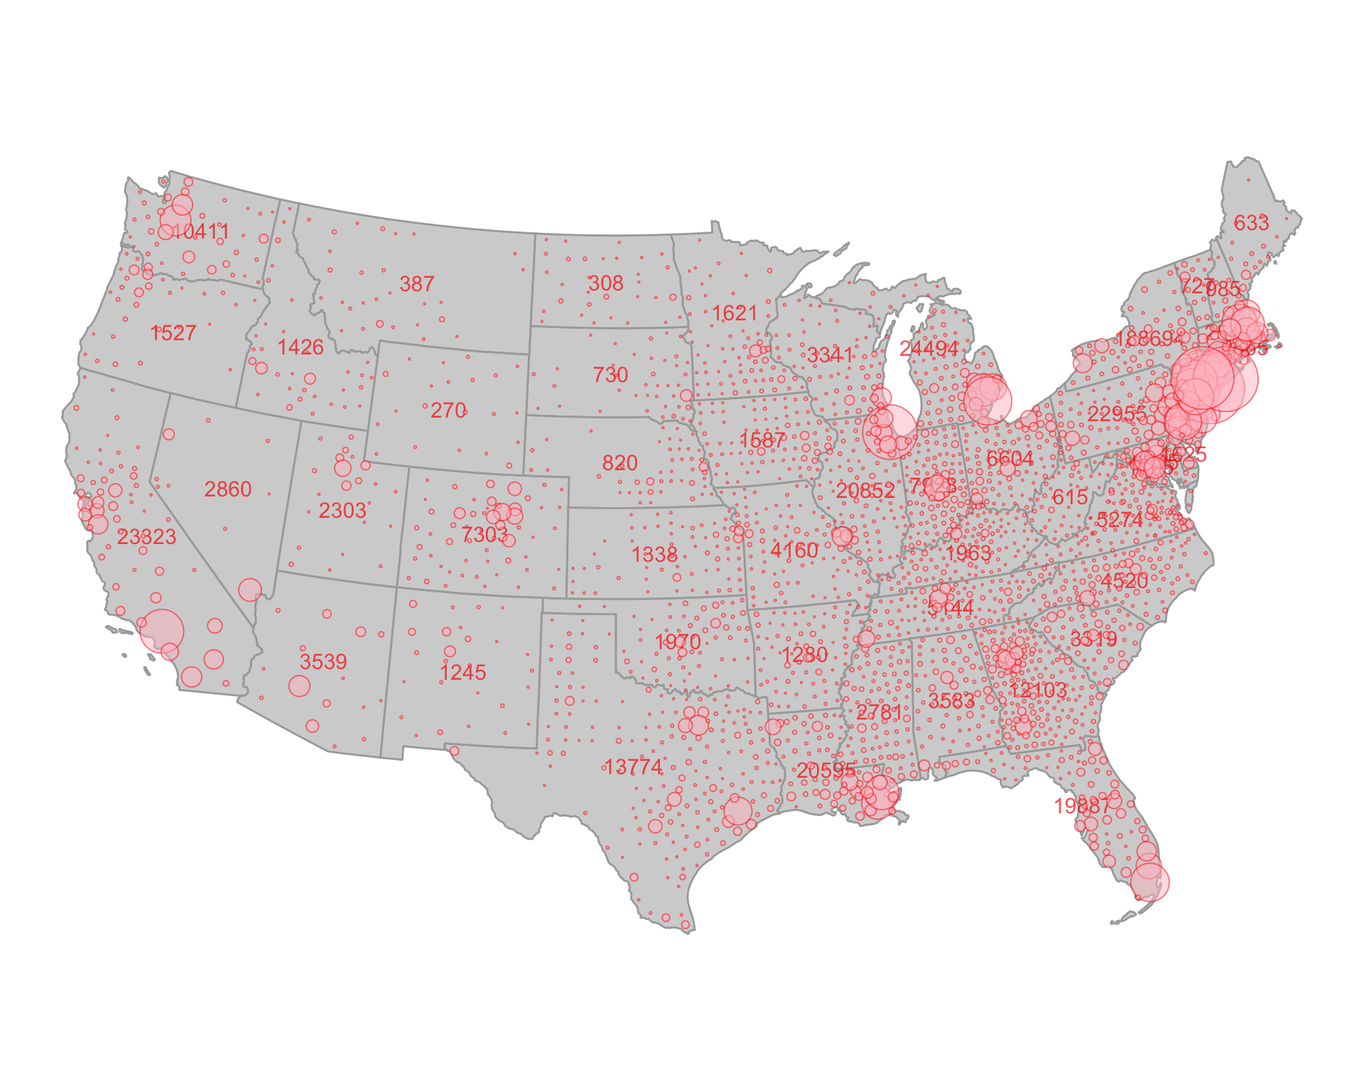
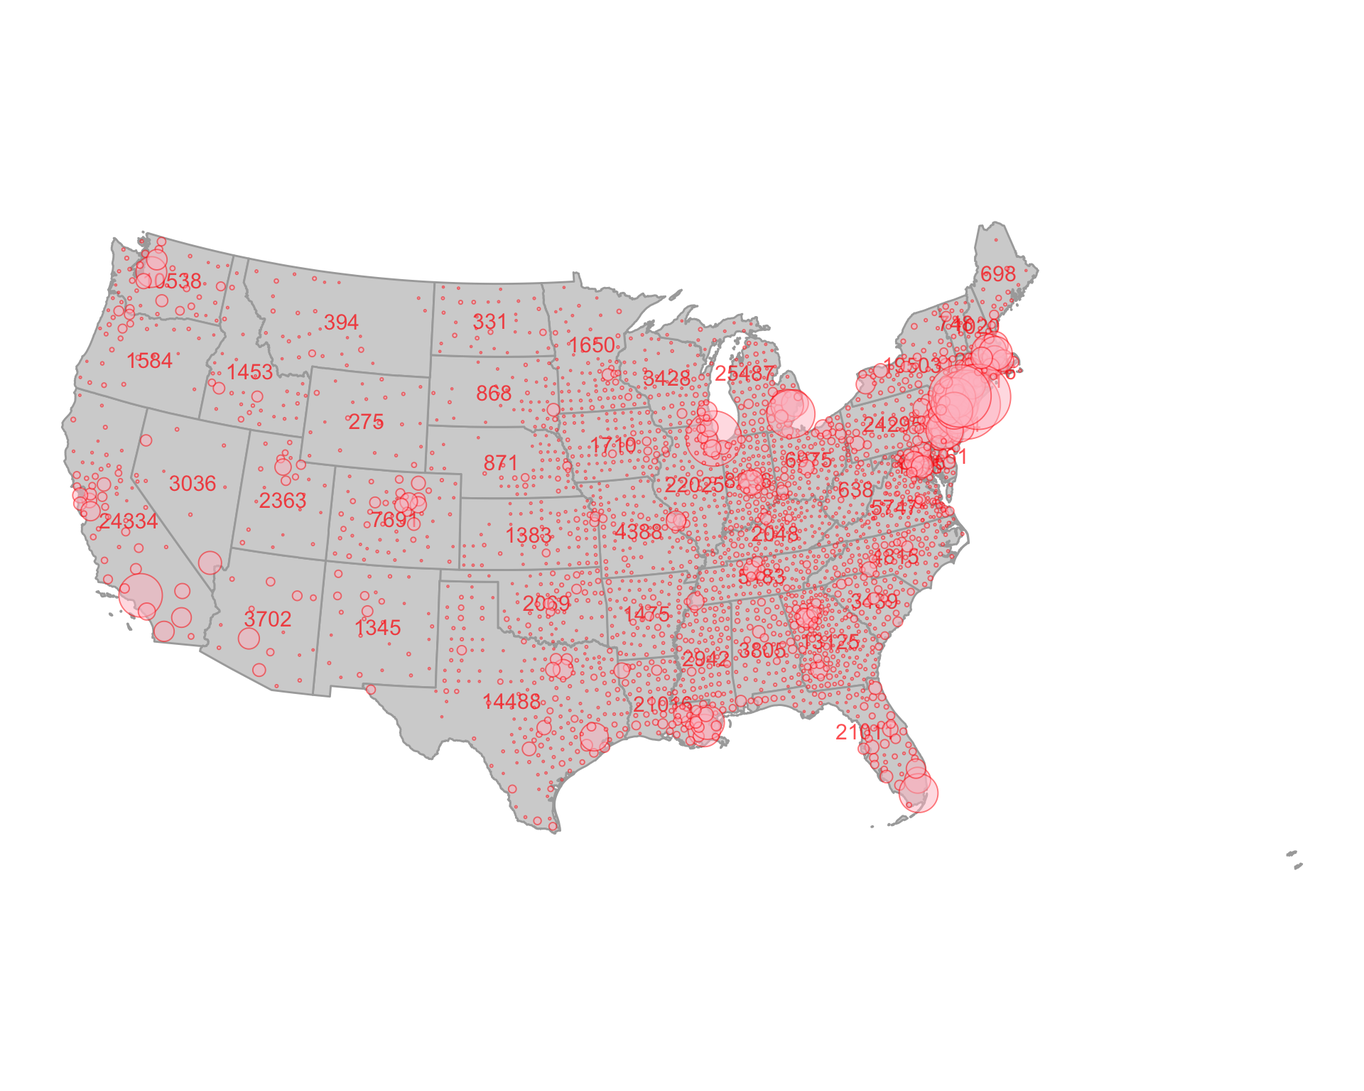
Updating with tigris

Changed region(s): [[0.0312, 0.125, 0.9688, 0.875]]

diff --git a/docs/articles/ny-times-bubble-map.html b/docs/articles/ny-times-bubble-map.html
@@ -97,62 +97,74 @@
 <div class="sourceCode" id="cb1"><pre class="sourceCode r"><code class="sourceCode r"><a class="sourceLine" id="cb1-1" data-line-number="1"><span class="kw"><a href="https://rdrr.io/r/base/library.html">require</a></span>(covid19nytimes)</a>
 <a class="sourceLine" id="cb1-2" data-line-number="2"><span class="kw"><a href="https://rdrr.io/r/base/library.html">require</a></span>(dplyr)</a>
 <a class="sourceLine" id="cb1-3" data-line-number="3"></a>
-<a class="sourceLine" id="cb1-4" data-line-number="4">covid19nytimes_states &lt;-<span class="st"> </span><span class="kw"><a href="../reference/refresh_covid19nytimes_states.html">refresh_covid19nytimes_states</a></span>()</a>
-<a class="sourceLine" id="cb1-5" data-line-number="5">covid19nytimes_counties &lt;-<span class="st"> </span><span class="kw"><a href="../reference/refresh_covid19nytimes_counties.html">refresh_covid19nytimes_counties</a></span>()</a></code></pre></div>
+<a class="sourceLine" id="cb1-4" data-line-number="4">covid19nytimes_states &lt;-<span class="st"> </span><span class="kw"><a href="../reference/refresh_covid19nytimes_states.html">refresh_covid19nytimes_states</a></span>() <span class="op">%&gt;%</span></a>
+<a class="sourceLine" id="cb1-5" data-line-number="5"><span class="st">    </span><span class="kw"><a href="https://dplyr.tidyverse.org/reference/filter.html">filter</a></span>(date <span class="op">==</span><span class="st"> </span><span class="kw"><a href="https://rdrr.io/r/base/Extremes.html">max</a></span>(date)) </a>
+<a class="sourceLine" id="cb1-6" data-line-number="6"></a>
+<a class="sourceLine" id="cb1-7" data-line-number="7">covid19nytimes_counties &lt;-<span class="st"> </span><span class="kw"><a href="../reference/refresh_covid19nytimes_counties.html">refresh_covid19nytimes_counties</a></span>()<span class="op">%&gt;%</span></a>
+<a class="sourceLine" id="cb1-8" data-line-number="8"><span class="st">    </span><span class="kw"><a href="https://dplyr.tidyverse.org/reference/filter.html">filter</a></span>(date <span class="op">==</span><span class="st"> </span><span class="kw"><a href="https://rdrr.io/r/base/Extremes.html">max</a></span>(date)) </a></code></pre></div>
 <p>Next, we need some county maps and state maps. For this, we’ll use the excellent <a href="https://cran.r-project.org/web/packages/USAboundaries/index.html">USAboundaries</a> package. We want the centroid of counties for bubble placement.</p>
 <div class="sourceCode" id="cb2"><pre class="sourceCode r"><code class="sourceCode r"><a class="sourceLine" id="cb2-1" data-line-number="1"><span class="kw"><a href="https://rdrr.io/r/base/library.html">require</a></span>(sf)</a>
-<a class="sourceLine" id="cb2-2" data-line-number="2"><span class="kw"><a href="https://rdrr.io/r/base/library.html">require</a></span>(USAboundaries)</a>
+<a class="sourceLine" id="cb2-2" data-line-number="2"><span class="kw"><a href="https://rdrr.io/r/base/library.html">require</a></span>(tigris)</a>
 <a class="sourceLine" id="cb2-3" data-line-number="3"></a>
-<a class="sourceLine" id="cb2-4" data-line-number="4">county_map &lt;-<span class="st"> </span><span class="kw"><a href="http://lincolnmullen.com/software/usaboundaries/reference/us_counties.html">us_counties</a></span>() <span class="op">%&gt;%</span></a>
+<a class="sourceLine" id="cb2-4" data-line-number="4">county_map &lt;-<span class="st"> </span><span class="kw"><a href="https://rdrr.io/pkg/tigris/man/counties.html">counties</a></span>(<span class="dt">cb =</span> <span class="ot">TRUE</span>, <span class="dt">resolution =</span> <span class="st">'20m'</span>, <span class="dt">class =</span> <span class="st">"sf"</span>) <span class="op">%&gt;%</span></a>
 <a class="sourceLine" id="cb2-5" data-line-number="5"><span class="st">  </span><span class="kw"><a href="https://rdrr.io/pkg/sf/man/geos_unary.html">st_centroid</a></span>()</a>
 <a class="sourceLine" id="cb2-6" data-line-number="6"></a>
-<a class="sourceLine" id="cb2-7" data-line-number="7">state_map &lt;-<span class="st"> </span><span class="kw"><a href="http://lincolnmullen.com/software/usaboundaries/reference/us_states.html">us_states</a></span>()</a></code></pre></div>
+<a class="sourceLine" id="cb2-7" data-line-number="7">state_map &lt;-<span class="st"> </span><span class="kw"><a href="https://rdrr.io/pkg/tigris/man/states.html">states</a></span>(<span class="dt">cb =</span> <span class="ot">TRUE</span>, <span class="dt">resolution =</span> <span class="st">'5m'</span>, <span class="dt">class =</span> <span class="st">"sf"</span>) </a>
+<a class="sourceLine" id="cb2-8" data-line-number="8"></a>
+<a class="sourceLine" id="cb2-9" data-line-number="9"><span class="co">#make a state lookup table</span></a>
+<a class="sourceLine" id="cb2-10" data-line-number="10">state_lookup &lt;-<span class="st"> </span>state_map <span class="op">%&gt;%</span></a>
+<a class="sourceLine" id="cb2-11" data-line-number="11"><span class="st">  </span><span class="kw"><a href="https://dplyr.tidyverse.org/reference/reexports.html">as_tibble</a></span>() <span class="op">%&gt;%</span></a>
+<a class="sourceLine" id="cb2-12" data-line-number="12"><span class="st">  </span><span class="kw"><a href="https://dplyr.tidyverse.org/reference/select.html">select</a></span>(STATEFP, NAME) <span class="op">%&gt;%</span></a>
+<a class="sourceLine" id="cb2-13" data-line-number="13"><span class="st">  </span><span class="kw"><a href="https://dplyr.tidyverse.org/reference/select.html">rename</a></span>(<span class="dt">STATE_NAME =</span> NAME)</a></code></pre></div>
 <p>OK, let’s filter to the lower 48 for all data sets</p>
-<div class="sourceCode" id="cb3"><pre class="sourceCode r"><code class="sourceCode r"><a class="sourceLine" id="cb3-1" data-line-number="1">filter_out &lt;-<span class="st"> </span><span class="kw"><a href="https://rdrr.io/r/base/c.html">c</a></span>(<span class="st">"Alaska"</span>, <span class="st">"Hawaii"</span>, <span class="st">"Guam"</span>, <span class="st">"Puerto Rico"</span>)</a>
-<a class="sourceLine" id="cb3-2" data-line-number="2"></a>
-<a class="sourceLine" id="cb3-3" data-line-number="3">covid19nytimes_states &lt;-<span class="st"> </span>covid19nytimes_states <span class="op">%&gt;%</span></a>
-<a class="sourceLine" id="cb3-4" data-line-number="4"><span class="st">  </span><span class="kw"><a href="https://dplyr.tidyverse.org/reference/filter.html">filter</a></span>(<span class="op">!</span>(location <span class="op">%in%</span><span class="st"> </span>filter_out)) <span class="op">%&gt;%</span></a>
-<a class="sourceLine" id="cb3-5" data-line-number="5"><span class="st">  </span><span class="kw"><a href="https://dplyr.tidyverse.org/reference/filter.html">filter</a></span>(location <span class="op">!=</span><span class="st"> "Unknown"</span>)</a>
-<a class="sourceLine" id="cb3-6" data-line-number="6"></a>
-<a class="sourceLine" id="cb3-7" data-line-number="7">covid19nytimes_counties &lt;-<span class="st"> </span>covid19nytimes_counties <span class="op">%&gt;%</span></a>
-<a class="sourceLine" id="cb3-8" data-line-number="8"><span class="st">  </span><span class="kw"><a href="https://dplyr.tidyverse.org/reference/filter.html">filter</a></span>(purrr<span class="op">::</span><span class="kw"><a href="https://purrr.tidyverse.org/reference/map.html">map_dbl</a></span>(location, <span class="op">~</span>stringr<span class="op">::</span><span class="kw"><a href="https://stringr.tidyverse.org/reference/str_detect.html">str_detect</a></span>(., filter_out) <span class="op">%&gt;%</span><span class="st"> </span>sum)<span class="op">==</span><span class="dv">0</span>) <span class="op">%&gt;%</span></a>
-<a class="sourceLine" id="cb3-9" data-line-number="9"><span class="st">  </span><span class="kw"><a href="https://dplyr.tidyverse.org/reference/filter.html">filter</a></span>(location <span class="op">!=</span><span class="st"> "Unknown"</span>)</a>
-<a class="sourceLine" id="cb3-10" data-line-number="10"></a>
-<a class="sourceLine" id="cb3-11" data-line-number="11">county_map &lt;-<span class="st"> </span>county_map <span class="op">%&gt;%</span></a>
-<a class="sourceLine" id="cb3-12" data-line-number="12"><span class="st">    </span><span class="kw"><a href="https://dplyr.tidyverse.org/reference/filter.html">filter</a></span>(<span class="op">!</span>(state_name <span class="op">%in%</span><span class="st"> </span>filter_out))</a>
+<div class="sourceCode" id="cb3"><pre class="sourceCode r"><code class="sourceCode r"><a class="sourceLine" id="cb3-1" data-line-number="1">filter_out &lt;-<span class="st"> </span><span class="kw"><a href="https://rdrr.io/r/base/c.html">c</a></span>(<span class="st">"Alaska"</span>, <span class="st">"Hawaii"</span>, <span class="st">"Guam"</span>, </a>
+<a class="sourceLine" id="cb3-2" data-line-number="2">                <span class="st">"Puerto Rico"</span>, <span class="st">"American Samoa"</span>,</a>
+<a class="sourceLine" id="cb3-3" data-line-number="3">                <span class="st">"Commonwealth of the Northern Mariana Islands"</span>,</a>
+<a class="sourceLine" id="cb3-4" data-line-number="4">                <span class="st">"Virgin Islands"</span>)</a>
+<a class="sourceLine" id="cb3-5" data-line-number="5"></a>
+<a class="sourceLine" id="cb3-6" data-line-number="6">covid19nytimes_states &lt;-<span class="st"> </span>covid19nytimes_states <span class="op">%&gt;%</span></a>
+<a class="sourceLine" id="cb3-7" data-line-number="7"><span class="st">  </span><span class="kw"><a href="https://dplyr.tidyverse.org/reference/filter.html">filter</a></span>(<span class="op">!</span>(location <span class="op">%in%</span><span class="st"> </span>filter_out)) <span class="op">%&gt;%</span></a>
+<a class="sourceLine" id="cb3-8" data-line-number="8"><span class="st">  </span><span class="kw"><a href="https://dplyr.tidyverse.org/reference/filter.html">filter</a></span>(location <span class="op">!=</span><span class="st"> "Unknown"</span>)</a>
+<a class="sourceLine" id="cb3-9" data-line-number="9"></a>
+<a class="sourceLine" id="cb3-10" data-line-number="10">covid19nytimes_counties &lt;-<span class="st"> </span>covid19nytimes_counties <span class="op">%&gt;%</span></a>
+<a class="sourceLine" id="cb3-11" data-line-number="11"><span class="st">  </span><span class="kw"><a href="https://dplyr.tidyverse.org/reference/filter.html">filter</a></span>(purrr<span class="op">::</span><span class="kw"><a href="https://purrr.tidyverse.org/reference/map.html">map_dbl</a></span>(location, <span class="op">~</span>stringr<span class="op">::</span><span class="kw"><a href="https://stringr.tidyverse.org/reference/str_detect.html">str_detect</a></span>(., filter_out) <span class="op">%&gt;%</span><span class="st"> </span>sum)<span class="op">==</span><span class="dv">0</span>) <span class="op">%&gt;%</span></a>
+<a class="sourceLine" id="cb3-12" data-line-number="12"><span class="st">  </span><span class="kw"><a href="https://dplyr.tidyverse.org/reference/filter.html">filter</a></span>(location <span class="op">!=</span><span class="st"> "Unknown"</span>)</a>
 <a class="sourceLine" id="cb3-13" data-line-number="13"></a>
-<a class="sourceLine" id="cb3-14" data-line-number="14">state_map &lt;-<span class="st"> </span>state_map <span class="op">%&gt;%</span></a>
-<a class="sourceLine" id="cb3-15" data-line-number="15"><span class="st">    </span><span class="kw"><a href="https://dplyr.tidyverse.org/reference/filter.html">filter</a></span>(<span class="op">!</span>(name <span class="op">%in%</span><span class="st"> </span>filter_out))</a></code></pre></div>
+<a class="sourceLine" id="cb3-14" data-line-number="14">county_map &lt;-<span class="st"> </span>county_map <span class="op">%&gt;%</span></a>
+<a class="sourceLine" id="cb3-15" data-line-number="15"><span class="st">  </span><span class="kw"><a href="https://dplyr.tidyverse.org/reference/join.html">left_join</a></span>(state_lookup) <span class="op">%&gt;%</span></a>
+<a class="sourceLine" id="cb3-16" data-line-number="16"><span class="st">    </span><span class="kw"><a href="https://dplyr.tidyverse.org/reference/filter.html">filter</a></span>(<span class="op">!</span>(STATE_NAME <span class="op">%in%</span><span class="st"> </span>filter_out))</a>
+<a class="sourceLine" id="cb3-17" data-line-number="17"><span class="co">#&gt; Joining, by = "STATEFP"</span></a>
+<a class="sourceLine" id="cb3-18" data-line-number="18"></a>
+<a class="sourceLine" id="cb3-19" data-line-number="19">state_map &lt;-<span class="st"> </span>state_map <span class="op">%&gt;%</span></a>
+<a class="sourceLine" id="cb3-20" data-line-number="20"><span class="st">    </span><span class="kw"><a href="https://dplyr.tidyverse.org/reference/filter.html">filter</a></span>(<span class="op">!</span>(NAME <span class="op">%in%</span><span class="st"> </span>filter_out))</a></code></pre></div>
 <p>For text labels, we use centroids of states joined with maximum number of case numbers.</p>
 <div class="sourceCode" id="cb4"><pre class="sourceCode r"><code class="sourceCode r"><a class="sourceLine" id="cb4-1" data-line-number="1">state_num_centroids &lt;-<span class="st"> </span>covid19nytimes_states <span class="op">%&gt;%</span></a>
 <a class="sourceLine" id="cb4-2" data-line-number="2"><span class="st">  </span><span class="kw"><a href="https://dplyr.tidyverse.org/reference/filter.html">filter</a></span>(date <span class="op">==</span><span class="st"> </span><span class="kw"><a href="https://rdrr.io/r/base/Extremes.html">max</a></span>(date)) <span class="op">%&gt;%</span></a>
 <a class="sourceLine" id="cb4-3" data-line-number="3"><span class="st">  </span><span class="kw"><a href="https://dplyr.tidyverse.org/reference/filter.html">filter</a></span>(data_type <span class="op">==</span><span class="st"> "cases_total"</span>) <span class="op">%&gt;%</span></a>
 <a class="sourceLine" id="cb4-4" data-line-number="4"><span class="st">  </span><span class="kw"><a href="https://dplyr.tidyverse.org/reference/join.html">left_join</a></span>(state_map,</a>
-<a class="sourceLine" id="cb4-5" data-line-number="5">            <span class="dt">by =</span> <span class="kw"><a href="https://rdrr.io/r/base/c.html">c</a></span>(<span class="st">"location_code"</span> =<span class="st"> "geoid"</span>)) <span class="op">%&gt;%</span></a>
+<a class="sourceLine" id="cb4-5" data-line-number="5">            <span class="dt">by =</span> <span class="kw"><a href="https://rdrr.io/r/base/c.html">c</a></span>(<span class="st">"location_code"</span> =<span class="st"> "STATEFP"</span>)) <span class="op">%&gt;%</span></a>
 <a class="sourceLine" id="cb4-6" data-line-number="6"><span class="st">  </span><span class="kw"><a href="https://rdrr.io/pkg/sf/man/st_as_sf.html">st_as_sf</a></span>(<span class="dt">crs =</span> <span class="kw"><a href="https://rdrr.io/pkg/sf/man/st_crs.html">st_crs</a></span>(state_map)) <span class="op">%&gt;%</span></a>
 <a class="sourceLine" id="cb4-7" data-line-number="7"><span class="st">  </span><span class="kw"><a href="https://rdrr.io/pkg/sf/man/geos_unary.html">st_centroid</a></span>()</a></code></pre></div>
 <p>Now, we join the county data and the county centroid map and filter to the last date in the data set.</p>
 <div class="sourceCode" id="cb5"><pre class="sourceCode r"><code class="sourceCode r"><a class="sourceLine" id="cb5-1" data-line-number="1">joined_covid_counties &lt;-<span class="st"> </span>covid19nytimes_counties <span class="op">%&gt;%</span></a>
-<a class="sourceLine" id="cb5-2" data-line-number="2"><span class="st">  </span><span class="kw"><a href="https://dplyr.tidyverse.org/reference/filter.html">filter</a></span>(date <span class="op">==</span><span class="st"> </span><span class="kw"><a href="https://rdrr.io/r/base/Extremes.html">max</a></span>(date)) <span class="op">%&gt;%</span></a>
-<a class="sourceLine" id="cb5-3" data-line-number="3"><span class="st">  </span><span class="kw"><a href="https://dplyr.tidyverse.org/reference/filter.html">filter</a></span>(data_type <span class="op">==</span><span class="st"> "cases_total"</span>) <span class="op">%&gt;%</span></a>
-<a class="sourceLine" id="cb5-4" data-line-number="4"><span class="st">  </span><span class="kw"><a href="https://dplyr.tidyverse.org/reference/join.html">left_join</a></span>(county_map,</a>
-<a class="sourceLine" id="cb5-5" data-line-number="5">            <span class="dt">by =</span> <span class="kw"><a href="https://rdrr.io/r/base/c.html">c</a></span>(<span class="st">"location_code"</span> =<span class="st"> "geoid"</span>)) <span class="op">%&gt;%</span></a>
-<a class="sourceLine" id="cb5-6" data-line-number="6"><span class="st">  </span><span class="kw"><a href="https://rdrr.io/pkg/sf/man/st_as_sf.html">st_as_sf</a></span>(<span class="dt">crs =</span> <span class="kw"><a href="https://rdrr.io/pkg/sf/man/st_crs.html">st_crs</a></span>(county_map))</a></code></pre></div>
+<a class="sourceLine" id="cb5-2" data-line-number="2"><span class="st">  </span><span class="kw"><a href="https://dplyr.tidyverse.org/reference/filter.html">filter</a></span>(data_type <span class="op">==</span><span class="st"> "cases_total"</span>) <span class="op">%&gt;%</span></a>
+<a class="sourceLine" id="cb5-3" data-line-number="3"><span class="st">  </span><span class="kw"><a href="https://dplyr.tidyverse.org/reference/join.html">left_join</a></span>(county_map,</a>
+<a class="sourceLine" id="cb5-4" data-line-number="4">            <span class="dt">by =</span> <span class="kw"><a href="https://rdrr.io/r/base/c.html">c</a></span>(<span class="st">"location_code"</span> =<span class="st"> "GEOID"</span>)) <span class="op">%&gt;%</span></a>
+<a class="sourceLine" id="cb5-5" data-line-number="5"><span class="st">  </span><span class="kw"><a href="https://rdrr.io/pkg/sf/man/st_as_sf.html">st_as_sf</a></span>(<span class="dt">crs =</span> <span class="kw"><a href="https://rdrr.io/pkg/sf/man/st_crs.html">st_crs</a></span>(county_map))</a></code></pre></div>
 <p>Last, let’s make the plot!</p>
-<div class="sourceCode" id="cb6"><pre class="sourceCode r"><code class="sourceCode r"><a class="sourceLine" id="cb6-1" data-line-number="1"><span class="kw"><a href="https://rdrr.io/r/base/library.html">require</a></span>(ggplot2)</a>
-<a class="sourceLine" id="cb6-2" data-line-number="2"><span class="co">#&gt; Loading required package: ggplot2</span></a>
-<a class="sourceLine" id="cb6-3" data-line-number="3"></a>
-<a class="sourceLine" id="cb6-4" data-line-number="4"><span class="kw"><a href="https://ggplot2.tidyverse.org/reference/ggplot.html">ggplot</a></span>() <span class="op">+</span></a>
-<a class="sourceLine" id="cb6-5" data-line-number="5"><span class="st">  </span><span class="kw"><a href="https://ggplot2.tidyverse.org/reference/ggsf.html">geom_sf</a></span>(<span class="dt">data =</span> state_map, <span class="dt">fill =</span> <span class="st">"lightgrey"</span>, <span class="dt">color =</span> <span class="st">"darkgrey"</span>) <span class="op">+</span></a>
-<a class="sourceLine" id="cb6-6" data-line-number="6"><span class="st">  </span><span class="kw"><a href="https://ggplot2.tidyverse.org/reference/ggsf.html">geom_sf_text</a></span>(<span class="dt">data =</span> state_num_centroids, <span class="kw"><a href="https://ggplot2.tidyverse.org/reference/aes.html">aes</a></span>(<span class="dt">label =</span> value), <span class="dt">color =</span> <span class="st">"red"</span>,</a>
-<a class="sourceLine" id="cb6-7" data-line-number="7">                <span class="dt">size =</span> <span class="dv">4</span>, <span class="dt">alpha =</span> <span class="fl">0.7</span>) <span class="op">+</span></a>
-<a class="sourceLine" id="cb6-8" data-line-number="8"><span class="st">  </span><span class="kw"><a href="https://ggplot2.tidyverse.org/reference/ggsf.html">geom_sf</a></span>(<span class="dt">data =</span> joined_covid_counties,</a>
-<a class="sourceLine" id="cb6-9" data-line-number="9">          <span class="dt">mapping =</span> <span class="kw"><a href="https://ggplot2.tidyverse.org/reference/aes.html">aes</a></span>(<span class="dt">size =</span> value),</a>
-<a class="sourceLine" id="cb6-10" data-line-number="10">          <span class="dt">shape =</span> <span class="dv">21</span>, <span class="dt">alpha =</span> <span class="fl">0.5</span>, <span class="dt">color =</span> <span class="st">"red"</span>, <span class="dt">fill =</span> <span class="st">"pink"</span>) <span class="op">+</span></a>
-<a class="sourceLine" id="cb6-11" data-line-number="11"><span class="st">  </span><span class="kw"><a href="https://ggplot2.tidyverse.org/reference/ggtheme.html">theme_void</a></span>() <span class="op">+</span></a>
-<a class="sourceLine" id="cb6-12" data-line-number="12"><span class="st">  </span><span class="kw"><a href="https://ggplot2.tidyverse.org/reference/scale_size.html">scale_size_continuous</a></span>(<span class="dt">guide=</span> <span class="st">"none"</span>,</a>
-<a class="sourceLine" id="cb6-13" data-line-number="13">                        <span class="dt">range =</span> <span class="kw"><a href="https://rdrr.io/r/base/c.html">c</a></span>(<span class="fl">0.05</span>, <span class="dv">35</span>)) <span class="op">+</span></a>
-<a class="sourceLine" id="cb6-14" data-line-number="14"><span class="st">  </span><span class="kw"><a href="https://ggplot2.tidyverse.org/reference/ggsf.html">coord_sf</a></span>(<span class="dt">crs =</span> <span class="kw"><a href="https://rdrr.io/pkg/sf/man/st_crs.html">st_crs</a></span>(<span class="dv">2163</span>)) <span class="co">#for that nice equal area curved look</span></a></code></pre></div>
+<div class="sourceCode" id="cb6"><pre class="sourceCode r"><code class="sourceCode r"><a class="sourceLine" id="cb6-1" data-line-number="1"><span class="kw"><a href="https://rdrr.io/r/base/library.html">library</a></span>(ggplot2)</a>
+<a class="sourceLine" id="cb6-2" data-line-number="2"></a>
+<a class="sourceLine" id="cb6-3" data-line-number="3"><span class="kw"><a href="https://ggplot2.tidyverse.org/reference/ggplot.html">ggplot</a></span>() <span class="op">+</span></a>
+<a class="sourceLine" id="cb6-4" data-line-number="4"><span class="st">  </span><span class="kw"><a href="https://ggplot2.tidyverse.org/reference/ggsf.html">geom_sf</a></span>(<span class="dt">data =</span> state_map, <span class="dt">fill =</span> <span class="st">"lightgrey"</span>, <span class="dt">color =</span> <span class="st">"darkgrey"</span>) <span class="op">+</span></a>
+<a class="sourceLine" id="cb6-5" data-line-number="5"><span class="st">  </span><span class="kw"><a href="https://ggplot2.tidyverse.org/reference/ggsf.html">geom_sf_text</a></span>(<span class="dt">data =</span> state_num_centroids, <span class="kw"><a href="https://ggplot2.tidyverse.org/reference/aes.html">aes</a></span>(<span class="dt">label =</span> value), <span class="dt">color =</span> <span class="st">"red"</span>,</a>
+<a class="sourceLine" id="cb6-6" data-line-number="6">                <span class="dt">size =</span> <span class="dv">4</span>, <span class="dt">alpha =</span> <span class="fl">0.7</span>) <span class="op">+</span></a>
+<a class="sourceLine" id="cb6-7" data-line-number="7"><span class="st">  </span><span class="kw"><a href="https://ggplot2.tidyverse.org/reference/ggsf.html">geom_sf</a></span>(<span class="dt">data =</span> joined_covid_counties,</a>
+<a class="sourceLine" id="cb6-8" data-line-number="8">          <span class="dt">mapping =</span> <span class="kw"><a href="https://ggplot2.tidyverse.org/reference/aes.html">aes</a></span>(<span class="dt">size =</span> value),</a>
+<a class="sourceLine" id="cb6-9" data-line-number="9">          <span class="dt">shape =</span> <span class="dv">21</span>, <span class="dt">alpha =</span> <span class="fl">0.5</span>, <span class="dt">color =</span> <span class="st">"red"</span>, <span class="dt">fill =</span> <span class="st">"pink"</span>) <span class="op">+</span></a>
+<a class="sourceLine" id="cb6-10" data-line-number="10"><span class="st">  </span><span class="kw"><a href="https://ggplot2.tidyverse.org/reference/ggtheme.html">theme_void</a></span>() <span class="op">+</span></a>
+<a class="sourceLine" id="cb6-11" data-line-number="11"><span class="st">  </span><span class="kw"><a href="https://ggplot2.tidyverse.org/reference/scale_size.html">scale_size_continuous</a></span>(<span class="dt">guide=</span> <span class="st">"none"</span>,</a>
+<a class="sourceLine" id="cb6-12" data-line-number="12">                        <span class="dt">range =</span> <span class="kw"><a href="https://rdrr.io/r/base/c.html">c</a></span>(<span class="fl">0.05</span>, <span class="dv">35</span>)) <span class="op">+</span></a>
+<a class="sourceLine" id="cb6-13" data-line-number="13"><span class="st">  </span><span class="kw"><a href="https://ggplot2.tidyverse.org/reference/ggsf.html">coord_sf</a></span>(<span class="dt">crs =</span> <span class="kw"><a href="https://rdrr.io/pkg/sf/man/st_crs.html">st_crs</a></span>(<span class="dv">2163</span>)) <span class="co">#for that nice equal area curved look</span></a></code></pre></div>
 <p><img src="ny-times-bubble-map_files/figure-html/plot-1.png" width="960"></p>
   </div>
 
